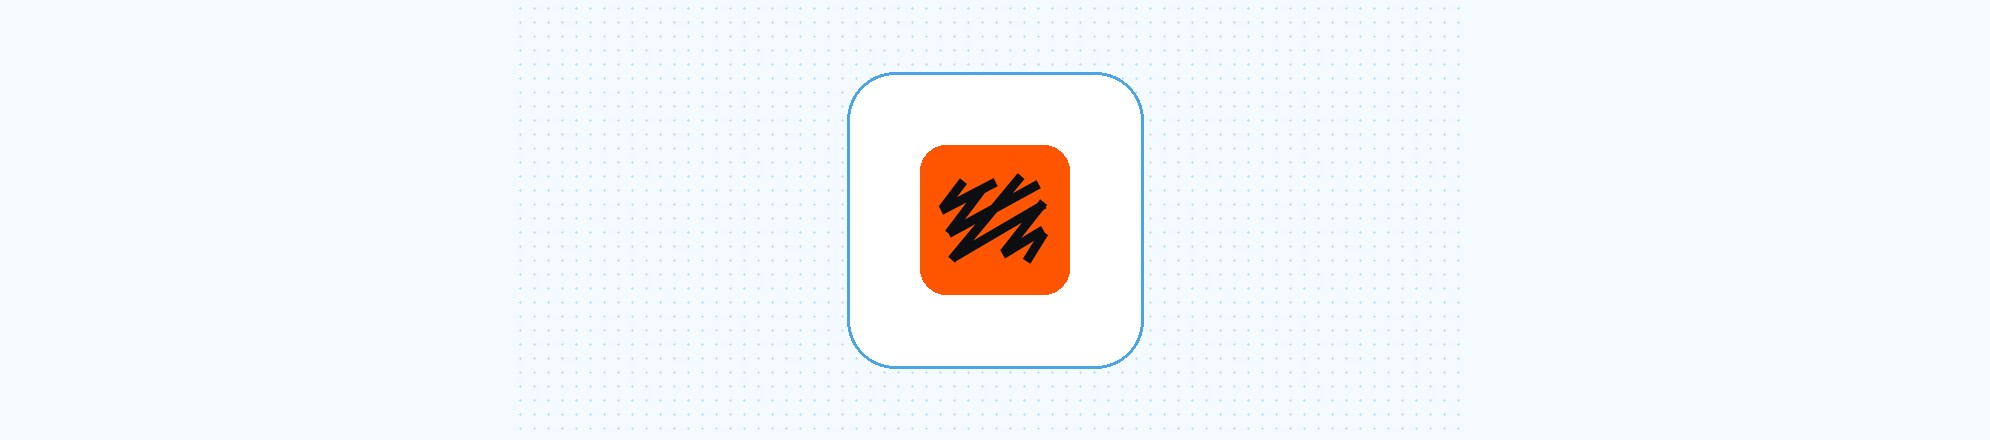
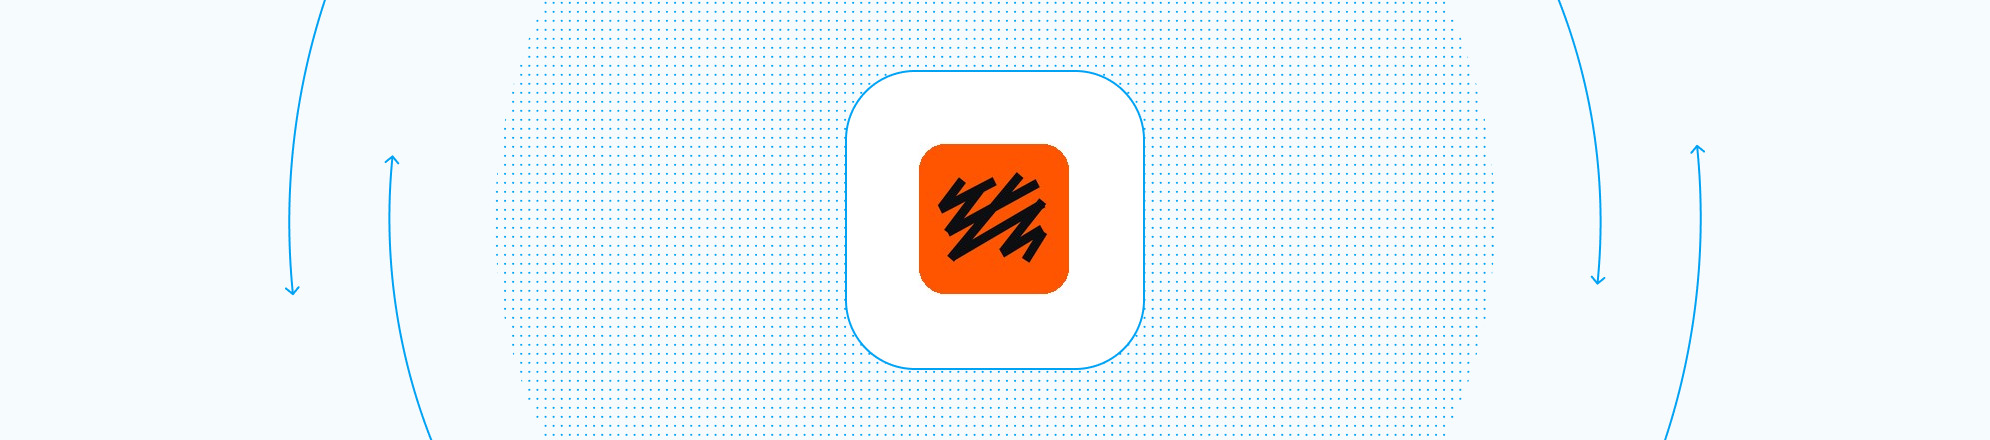
Asana docs: fix claims against the connector, add cover images
Corrects the Asana connector page where it disagreed with the connector
source: Whalesync throttles Asana at 150 requests a minute on every
plan, the Type select offers default_task/milestone/approval, followers
are reconciled exactly, and sections and tags behave differently when a
value has no match. Adds the read-only plain-text description column,
the 1,024-character text field limit, a beta note, and the missing
token-mismatch error.

Adds a cover for Asana and rebuilds the Sanity cover on the designer's
template, which the earlier one lacked (no arrows). Saves that template
as gitbook-cover_template.png for future connectors.

diff --git a/connectors/asana/README.md b/connectors/asana/README.md
@@ -1,5 +1,7 @@
 ---
 description: Two-way sync Asana tasks with Airtable, Notion, Google Sheets, and more.
+cover: ../../.gitbook/assets/gitbook-cover_asana.jpg
+coverY: 0
 ---
 
 # Asana
@@ -20,7 +22,7 @@ Whalesync connects by signing in to Asana, or with a personal access token you p
 
 ### Syncing Data
 
-Every project you can see in Asana is available as a table. Its columns are the task fields Asana gives every task plus the custom fields added to that project, so two projects with different custom fields have different columns.
+Every project the connected account can see in Asana is available as a table. Its columns are the task fields Asana gives every task plus the custom fields added to that project, so two projects with different custom fields have different columns.
 
 A task that belongs to several projects appears in each of those tables as the same task. Subtasks appear only when they are also in the project; a subtask that lives only under its parent task is not synced.
 
@@ -29,6 +31,7 @@ A task that belongs to several projects appears in each of those tables as the s
 <table><thead><tr><th width="260">Asana field</th><th width="220">Status</th><th>Notes</th></tr></thead><tbody>
 <tr><td>Name</td><td>✅ Supported</td><td>Required when creating a task from another app.</td></tr>
 <tr><td>Description</td><td>✅ Supported</td><td>Synced as rich text. See <a href="#descriptions">Descriptions</a>.</td></tr>
+<tr><td>Description (plain text)</td><td>➡ Supported (1-Way)</td><td>Read only. The same description without formatting.</td></tr>
 <tr><td>Completed</td><td>✅ Supported</td><td>A checkbox. Completed at is read only.</td></tr>
 <tr><td>Due date</td><td>✅ Supported</td><td>A date, with a time when the task has one.</td></tr>
 <tr><td>Start date</td><td>✅ Supported</td><td>Asana requires a due date before a start date, and both must be the same kind: both days, or both with a time.</td></tr>
@@ -36,8 +39,8 @@ A task that belongs to several projects appears in each of those tables as the s
 <tr><td>Section</td><td>✅ Supported</td><td>A select whose options are the project's sections. A section has to exist in Asana before a task can be moved into it.</td></tr>
 <tr><td>Parent task</td><td>✅ Supported</td><td>A link to another task in the same project. Set it to make a task a subtask; clear it to make it top level.</td></tr>
 <tr><td>Tags</td><td>✅ Supported</td><td>Links to the Tags table. Tags have to exist in Asana first.</td></tr>
-<tr><td>Followers</td><td>✅ Supported</td><td>Links to the Users table. The person whose account Whalesync uses stays a follower of tasks it edits.</td></tr>
-<tr><td>Type</td><td>✅ Supported</td><td>Task, milestone, or approval. Set when a task is created; it cannot be changed afterwards.</td></tr>
+<tr><td>Followers</td><td>✅ Supported</td><td>Links to the Users table. Asana adds the connected account as a follower of every task Whalesync creates, and that follower syncs back to the other app.</td></tr>
+<tr><td>Type</td><td>✅ Supported</td><td>One of <code>default_task</code>, <code>milestone</code>, or <code>approval</code>. Set when a task is created; it cannot be changed afterwards.</td></tr>
 <tr><td>Approval status</td><td>✅ Supported</td><td>Only approval tasks keep it. Approving a task also completes it.</td></tr>
 <tr><td>Attachments</td><td>➡ Supported (1-Way)</td><td>Read only. Files hosted by Asana are synced as files; links to Dropbox, Google Drive, Box, or Vimeo are left out.</td></tr>
 <tr><td>Projects</td><td>➡ Supported (1-Way)</td><td>Read only. Links to the Projects table for every project the task is in.</td></tr>
@@ -50,7 +53,7 @@ A task that belongs to several projects appears in each of those tables as the s
 Custom fields are an Asana paid feature. Each custom field added to a project is a column of that project's table.
 
 <table><thead><tr><th width="260">Custom field type</th><th width="220">Status</th><th>Notes</th></tr></thead><tbody>
-<tr><td>Text</td><td>✅ Supported</td><td></td></tr>
+<tr><td>Text</td><td>✅ Supported</td><td>Up to 1,024 characters.</td></tr>
 <tr><td>Number</td><td>✅ Supported</td><td>Includes currency and other number formats. Asana rounds to the field's precision.</td></tr>
 <tr><td>Single-select</td><td>✅ Supported</td><td>Synced by option name. A task holding an option that was later disabled still reads; writing a disabled option is refused by Asana.</td></tr>
 <tr><td>Multi-select</td><td>✅ Supported</td><td>Synced by option names.</td></tr>
@@ -61,17 +64,18 @@ Custom fields are an Asana paid feature. Each custom field added to a project is
 
 ## Descriptions
 
-A task's description is synced as rich text. Asana only accepts a small set of formatting: bold, italic, underline, strikethrough, code, links, bulleted and numbered lists, block quotes, preformatted text, two heading levels, and dividers. When a description comes from another app, Whalesync keeps the text and the formatting Asana has an equivalent for and drops the rest. Paragraphs become line breaks, tables become lines of text, and images become links to the image. A description longer than about 30,000 characters after that is reported as a sync issue for the task rather than sent.
+A task's description is synced as rich text. Asana only accepts a small set of formatting: bold, italic, underline, strikethrough, code, links, bulleted and numbered lists, block quotes, preformatted text, two heading levels, and dividers. When a description comes from another app, Whalesync keeps the text and the formatting Asana has an equivalent for and drops the rest. Paragraphs become line breaks, tables become lines of text, and images become links to the image. A description longer than 30,000 characters after that is reported as a sync issue for the task rather than sent.
 
 ## Real-time updates
 
-Whalesync registers a webhook on each project you sync, so a change to a task in Asana reaches your other apps within seconds instead of waiting for the next poll. Asana removes a webhook after a day of failed deliveries; Whalesync puts it back on its next check. Turning the sync off removes the webhooks.
+Whalesync registers a webhook on each project you map, so a change to a task in Asana reaches your other apps within seconds instead of waiting for the next poll. Asana removes a webhook after a day of failed deliveries; Whalesync puts it back on its next schema refresh. Turning the sync off removes the webhooks.
 
 ## Things to Keep in Mind
 
-* **Whalesync sees what your account sees.** Only projects the connected account is a member of are listed. Private projects and other people's My Tasks lists are not.
+* **The Asana connector is in beta.** If something does not work as described here, [let us know](../../resources/support/).
+* **Only projects the connected account can see are listed.** A private project it is not a member of is not. My Tasks lists are not projects and are not synced.
 * **A task removed from a project is treated as deleted in that project's table.** The task still exists in Asana; it just no longer belongs to the table.
-* **Sections and tags are not created from the other app.** A value naming a section or tag that does not exist in Asana is reported as a sync issue for that task.
+* **Whalesync does not create sections or tags.** A section name that does not exist in the project is reported as a sync issue for that task. A tag has to be one of the records in the Tags table.
 * **Milestones cannot have a start date**, and approval status is ignored on tasks that are not approvals. Asana enforces both.
 * **Comments and stories are not synced.**
-* **Asana rate limits by workspace plan:** 150 requests a minute on free workspaces and 1,500 on paid ones. A large first sync of a free workspace takes a while.
+* **Whalesync makes at most 150 requests a minute to Asana**, the limit Asana sets for free workspaces, whatever plan your workspace is on. A large first sync takes a while.

diff --git a/connectors/asana/authorize-asana.md b/connectors/asana/authorize-asana.md
@@ -29,5 +29,6 @@ A connection keeps its method. To switch between token and sign-in, create a new
 | Message | What to do |
 | --- | --- |
 | Asana did not accept this personal access token | The token was copied wrong or revoked. Copy it again, or create a new one. |
+| This personal access token cannot reach an Asana workspace this connection already syncs | The token belongs to a user who is not in a workspace the connection syncs. Use a token for the same Asana account. |
 | Asana no longer accepts the credentials Whalesync is using | The sign-in was revoked or the token deleted. Reconnect Asana. |
 | Whalesync doesn't have permission to access this in Asana | The connected user lost access to the project. Add them back, or reconnect as someone who has access. |
